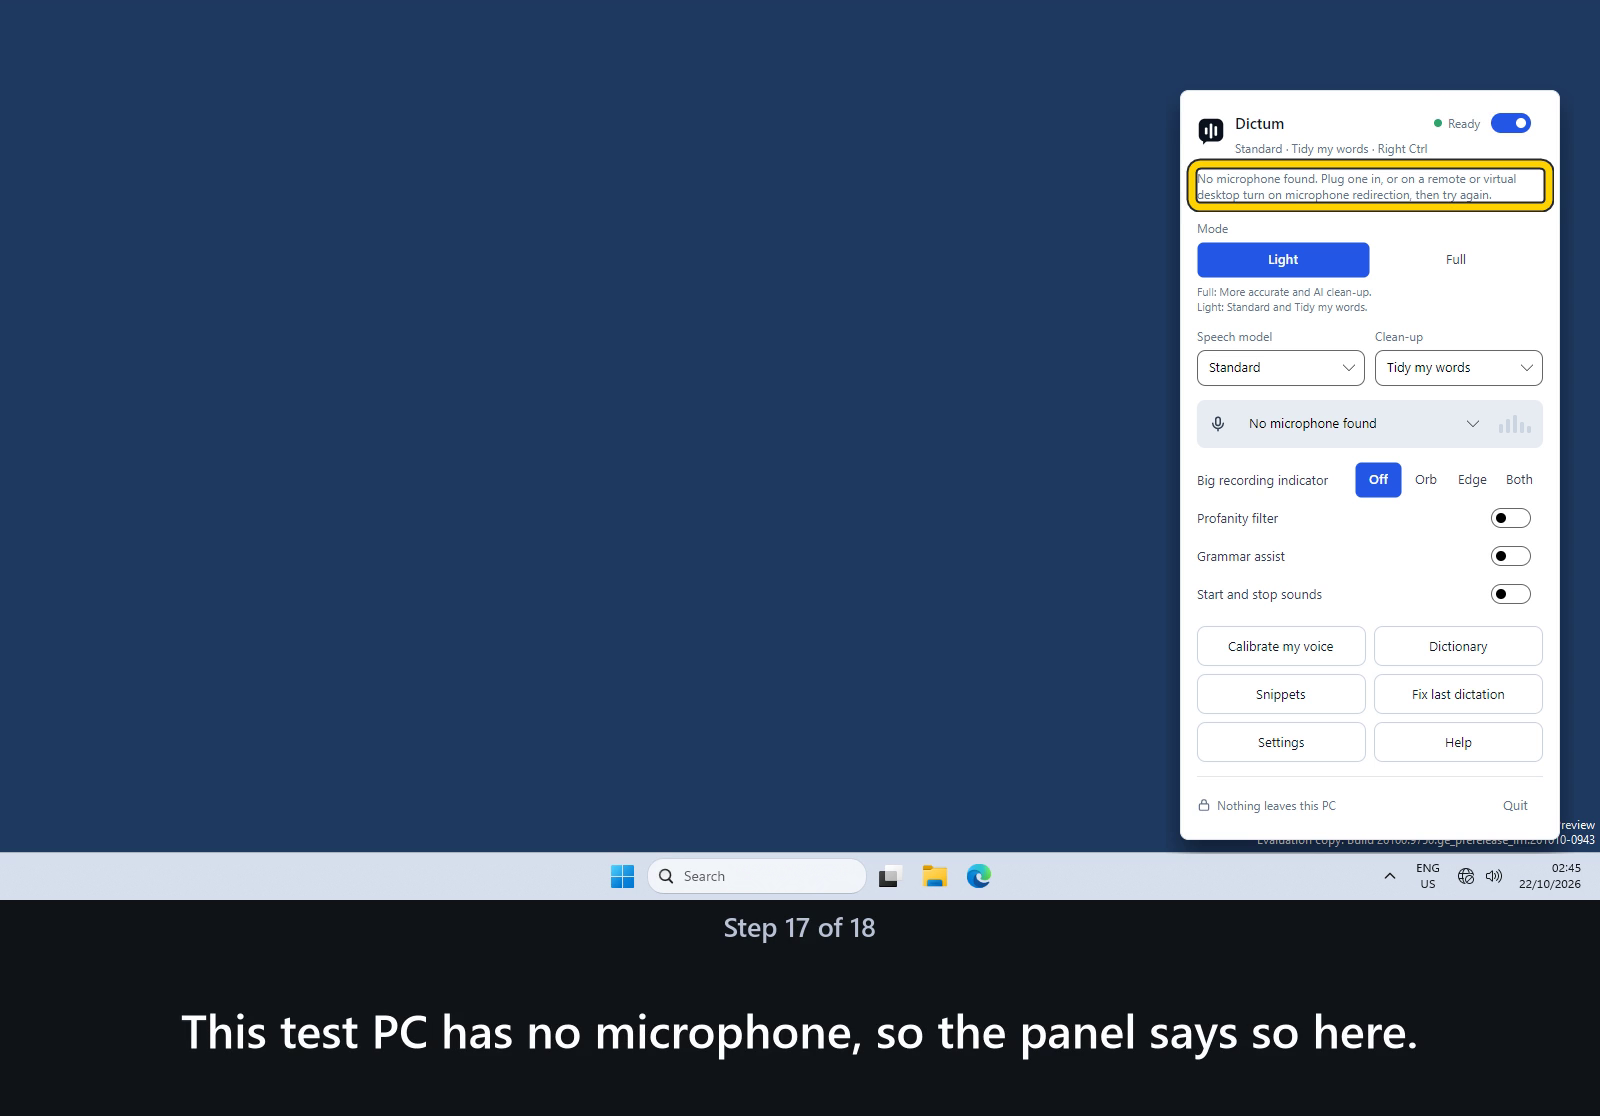
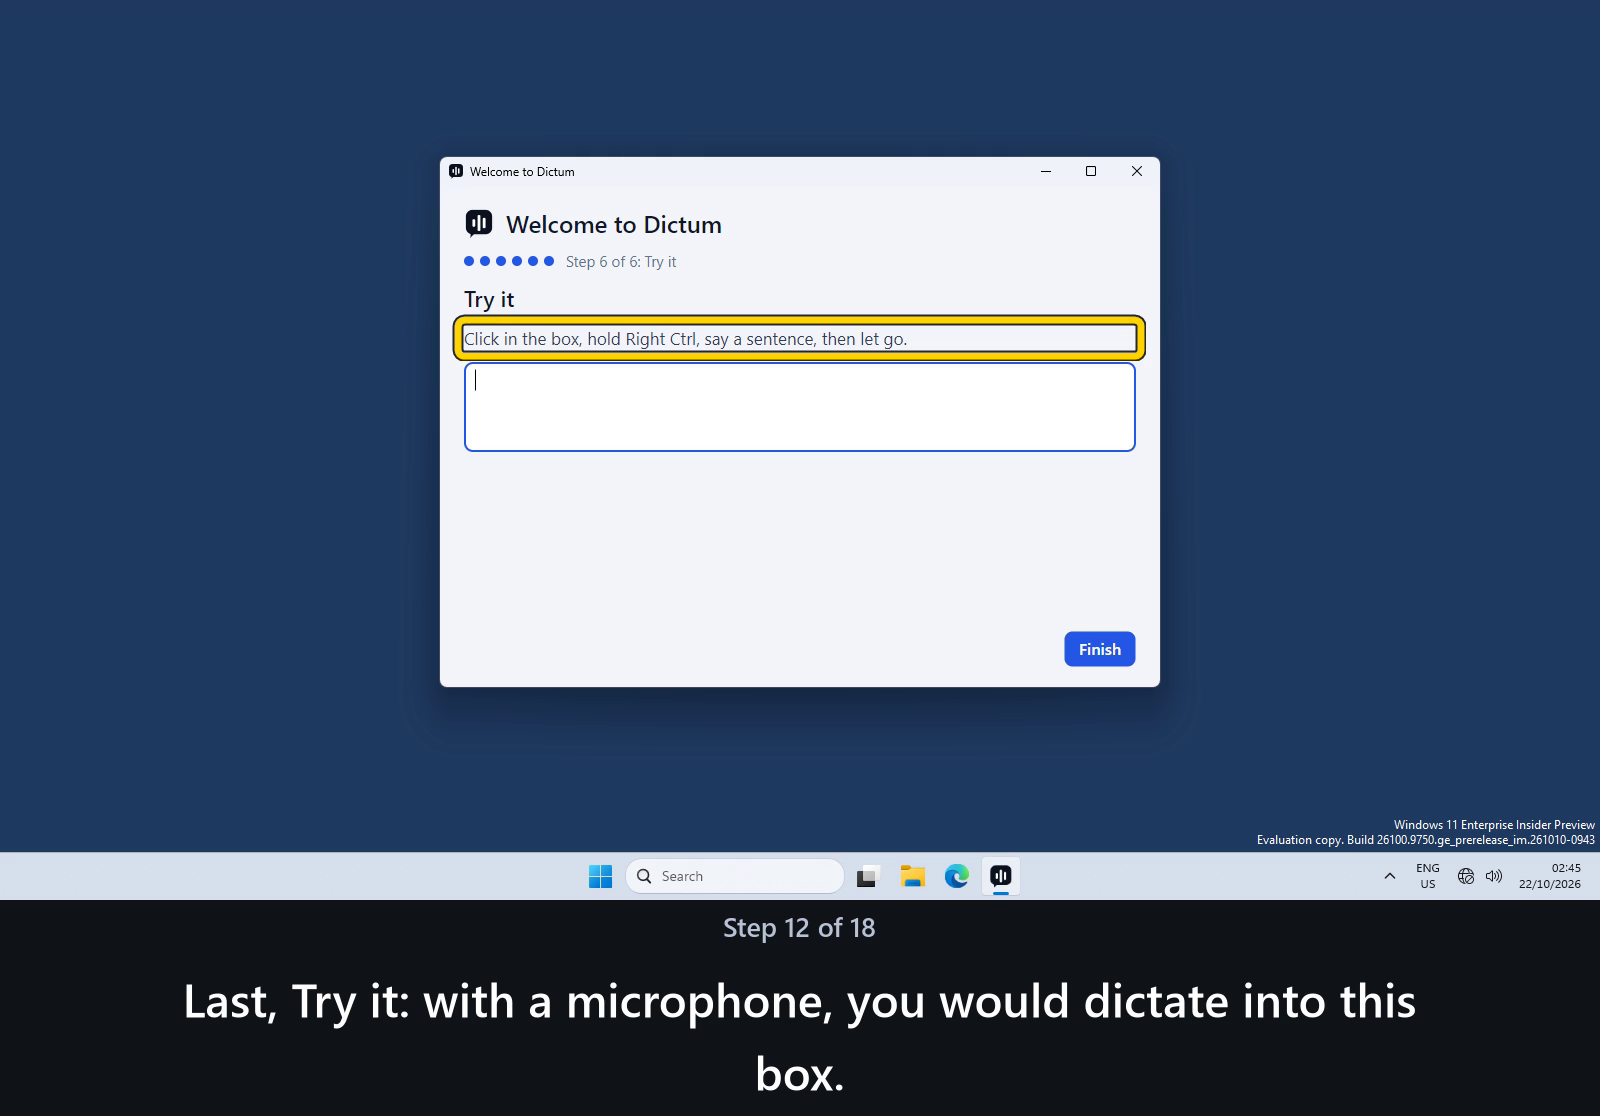
Demos: posters on error-free steps (first-run, test-setup)
- first-run poster: step 12, Try it with the box ready (was the panel's
  no-microphone step)
- test-setup poster: step 4, the sentence to read (was Record off with
  the no-microphone message); that sentence still shows under Record,
  since the 1.2 build shows it as soon as the window opens without a mic
- DEMOS.md lists the poster step of every demo

diff --git a/docs/DEMOS.md b/docs/DEMOS.md
@@ -253,6 +253,13 @@ videos are hosted is the product owner's decision.
 | 6. Find help | `help.json` | Settings > Help: the "Questions on this page" list, two questions opened from it and their answers, Send feedback (shown, not pressed) |
 | Dictation (stills) | `dictation-stills.json` | The pill: Recording, Transcribing, Pasted 12 words |
 
+Posters (the step marked `"poster": true`): install, step 9 (the welcome window's first step); first-run, step 12 (Try it,
+the box ready); change-model, step 7 (More accurate In use); test-setup, step 4 (the sentence to read); model-folder, step 8
+(the new folder shown); help, step 10 (Send feedback); dictation-stills, its last slide (Pasted 12 words). None is an
+error screen, except that the no-microphone sentence under the disabled Record is visible in test-setup's: on the 1.2
+build it shows from the moment the calibration window opens on a PC with no microphone, so no frame of that demo is
+without it.
+
 change-model, test-setup, model-folder and help go through the welcome window with its defaults (Next, Next, Next,
 Use this hotkey, Next, Finish) before recording starts. install and first-run do not: install ends on the welcome
 window, and first-run records it.
